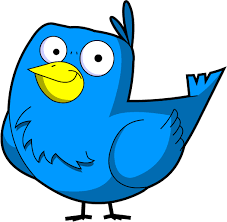
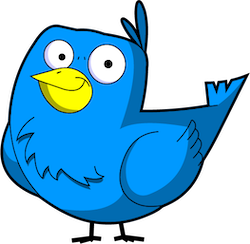
Add pet imgs and class

diff --git a/src/pet.js b/src/pet.js
@@ -1,0 +1,14 @@
+export default class Pet {
+    constructor(type,pos) {
+        this.type = type
+        this.pos = pos;
+    }
+
+    draw(canvas) {
+        fabric.Image.fromURL(`../assets/images/pets/${this.type}.png`, function(img) {
+            img.scale(.2)
+            img.set('hasControls', false)
+            canvas.add(img);
+        });
+    }
+}
